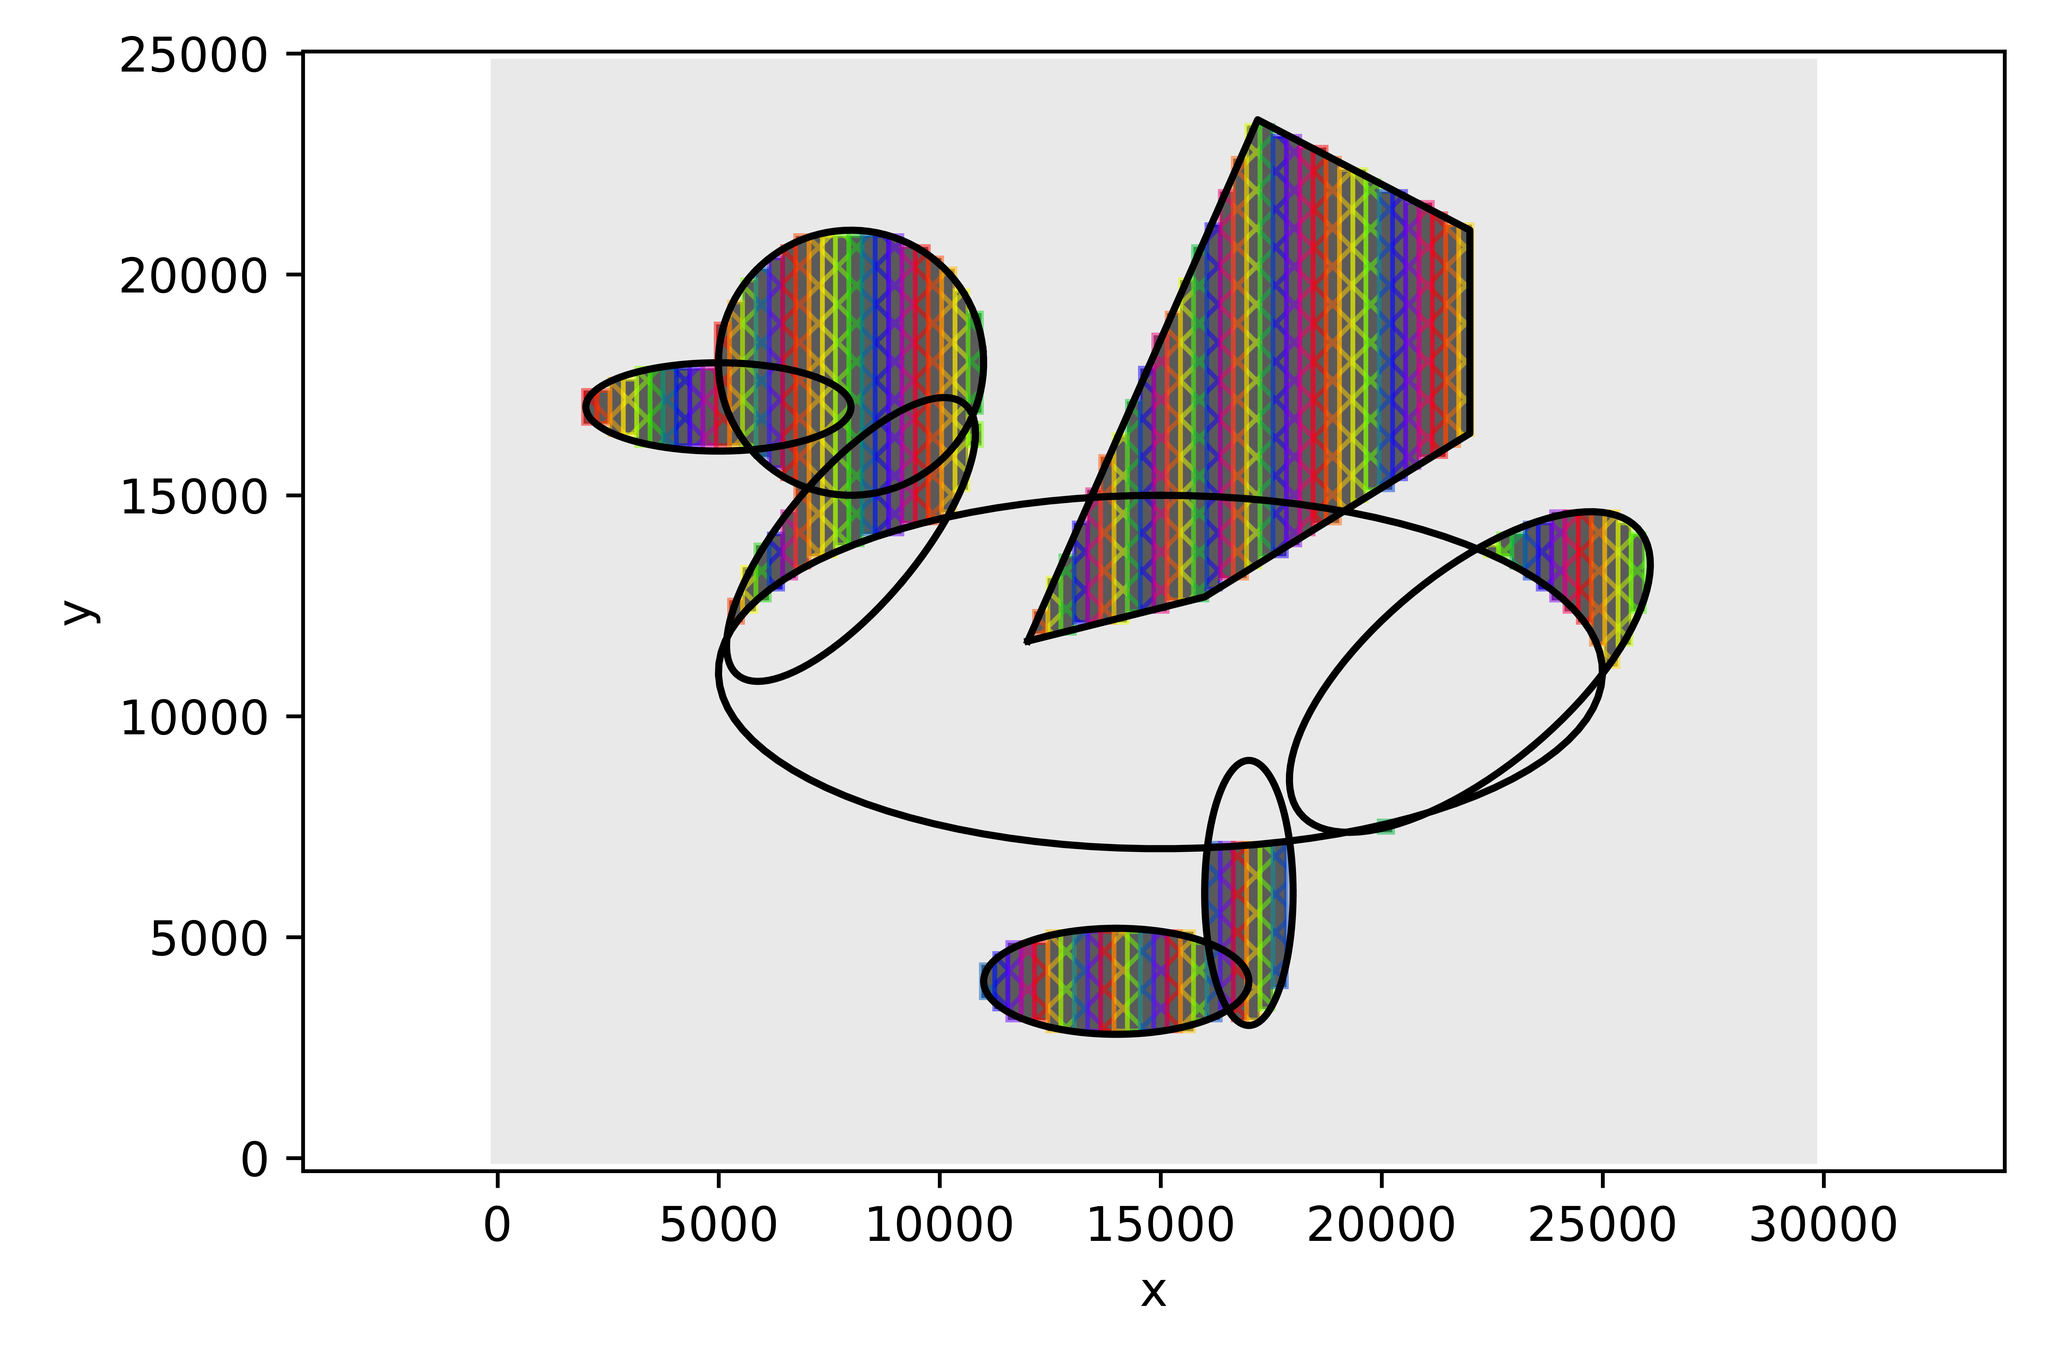
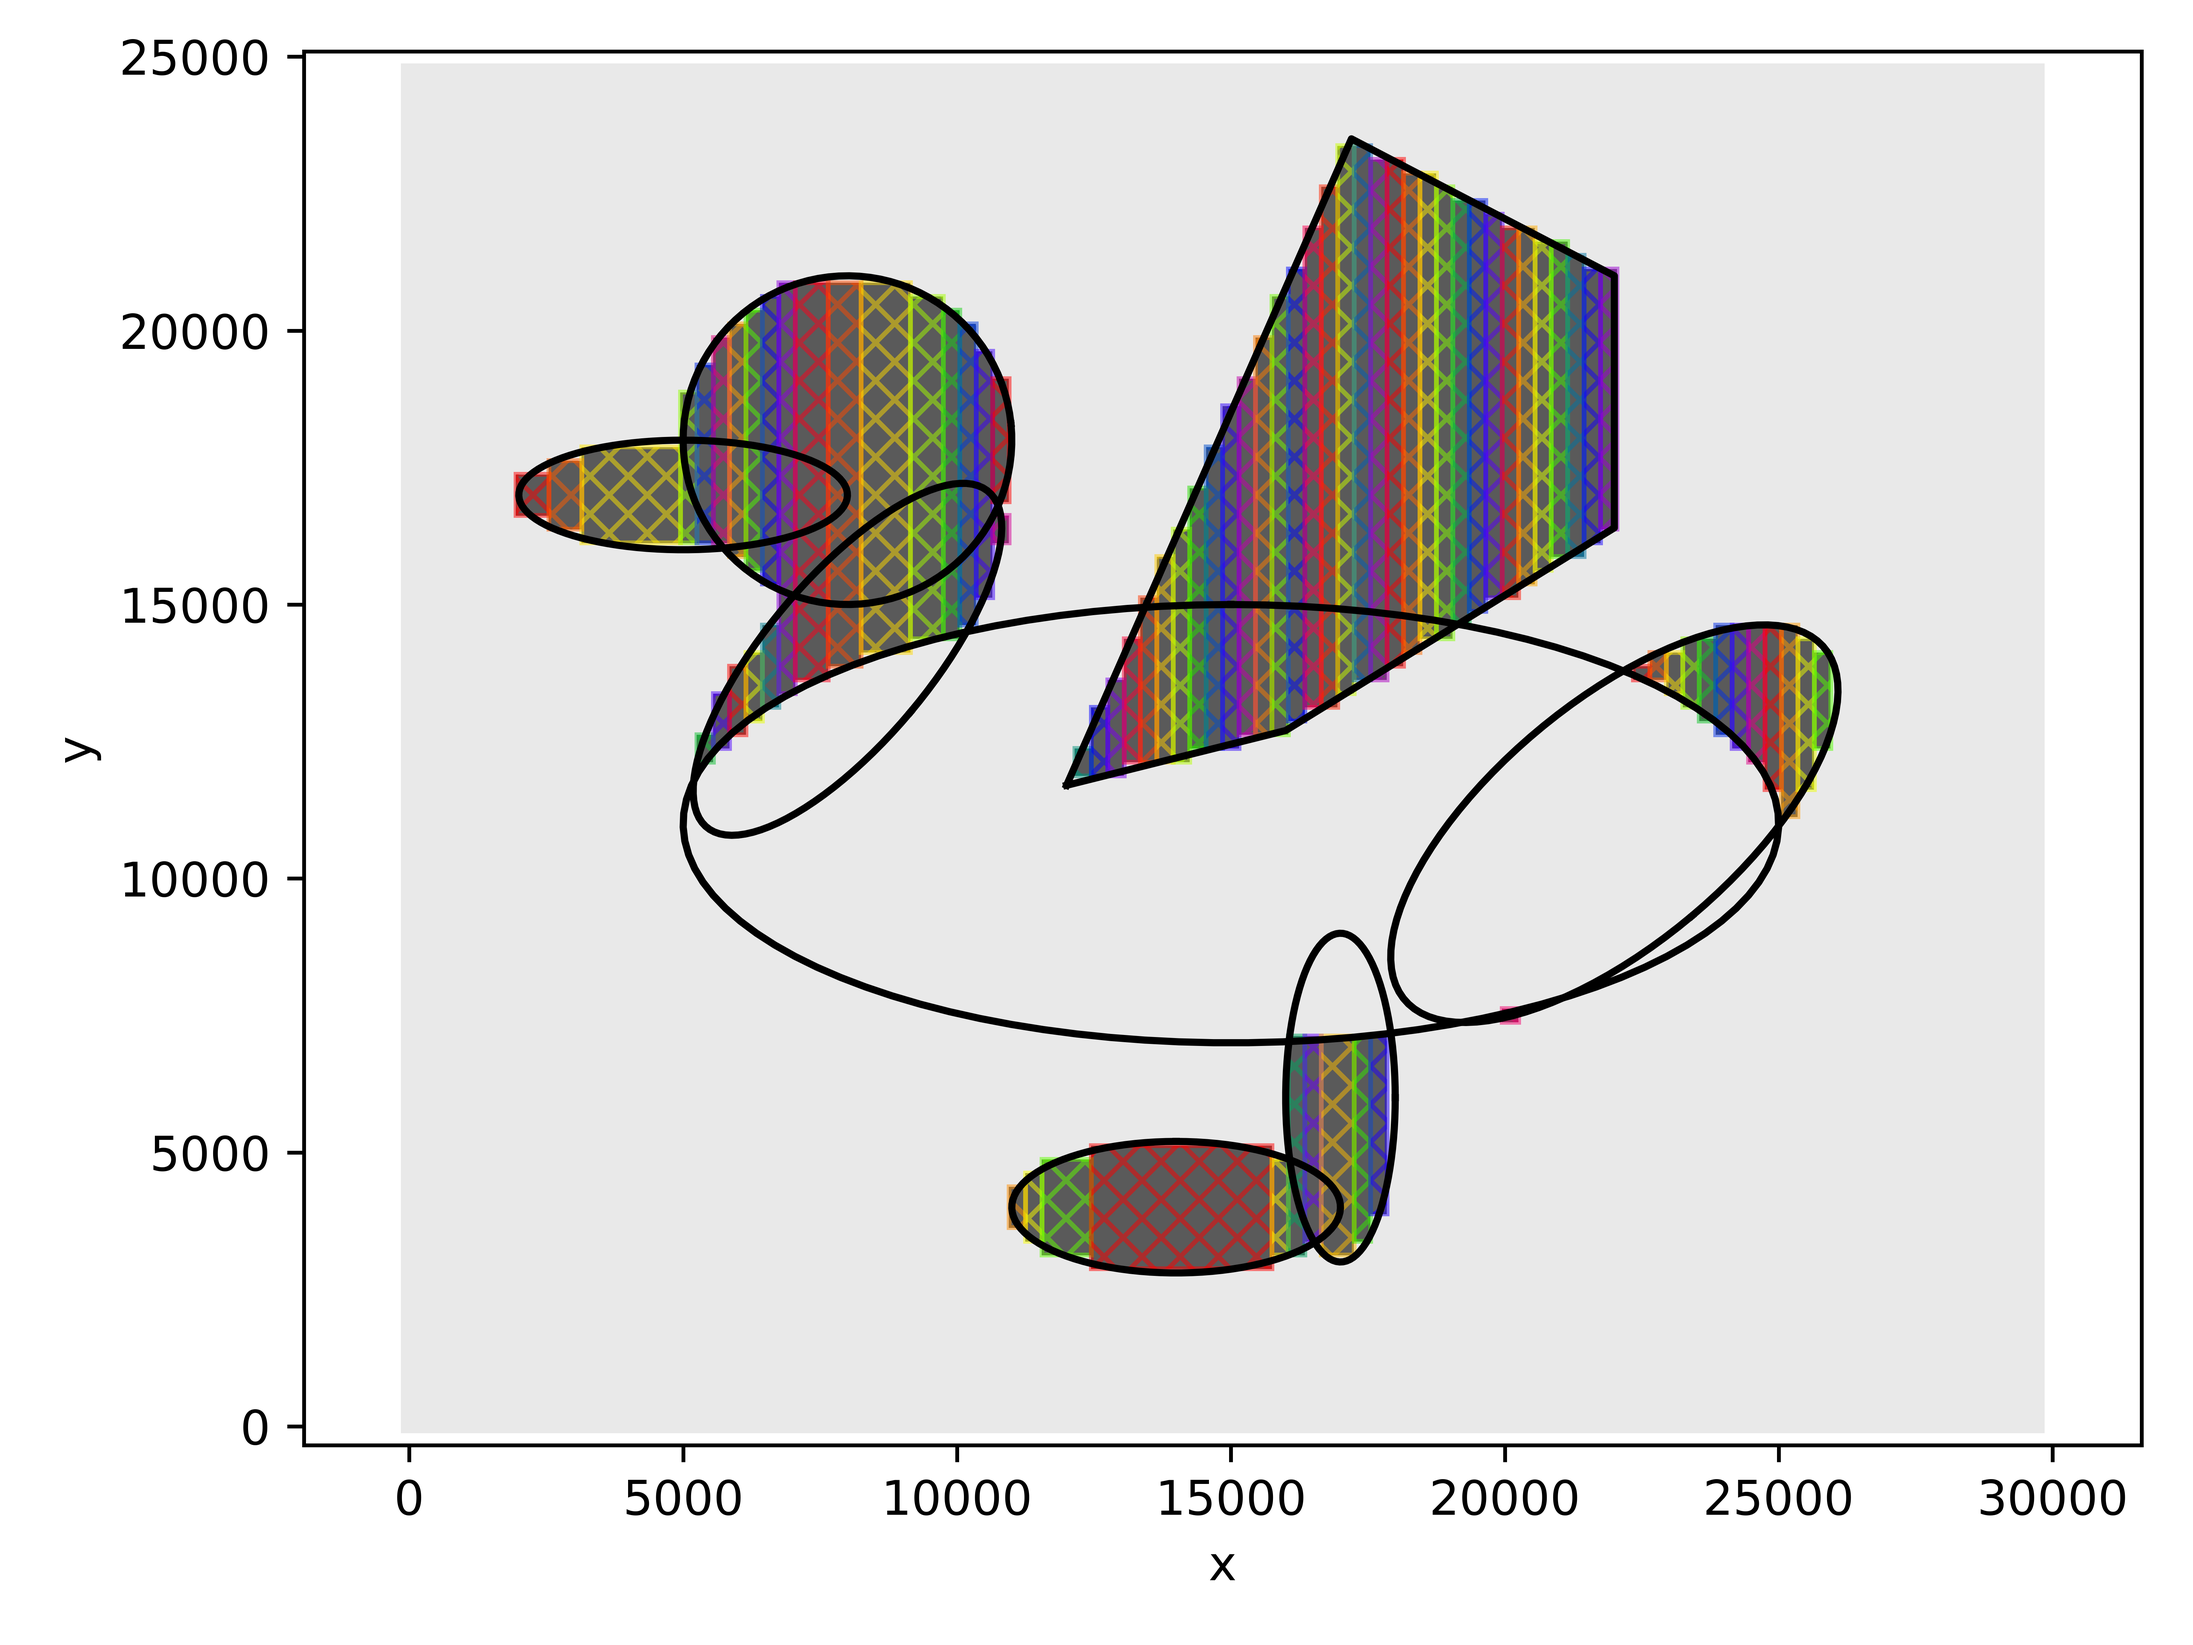
new algorithm

diff --git a/rectangulize.py b/rectangulize.py
@@ -124,6 +124,56 @@ def rectangulize_oli(pattern):
   
     return ibr
 
+def rectangulize_oli_horizontal_grouping(pattern):
+    pattern = pattern.T
+    ibr = []
+
+    for k in range(pattern.shape[0]):
+        line_rects = []
+        
+        if np.sum(pattern[k,:]) !=0:
+            oli = find_object_level_interval(pattern[k,:],interval = [],index = 0)
+            
+            # intervals = []
+            
+            for i in range(oli.shape[0]):
+                # ibr.append((k,oli[i][0],k+1,oli[i][1]))
+                rect = (k,oli[i][0],k,oli[i][1]+oli[i][0]-1)
+                line_rects.append(rect)
+
+    
+        ibr.append(line_rects)
+    
+    # iterate neighboring lines and group identical rectangles
+    for ii in range(pattern.shape[0] - 1):
+        line1_new = []
+        line2_new = []
+        line1 = ibr[ii]
+        line2 = ibr[ii+1]
+        rect2_partner_found = [False for _ in range(len(line2))]
+        for rect1 in line1:
+            rect1_partner_found = False
+            for r2idx, rect2 in enumerate(line2):
+                # check if rectangles can be grouped
+                if rect1[1] == rect2[1] and rect1[3] == rect2[3]:
+                    line2_new.append((rect1[0], rect1[1], rect2[2], rect2[3]))
+                    rect2_partner_found[r2idx] = True
+                    rect1_partner_found = True
+            if not rect1_partner_found:
+                line1_new.append(rect1)
+        for r2idx, rect2_partner_found in enumerate(rect2_partner_found):
+            if not rect2_partner_found:
+                line2_new.append(line2[r2idx])
+        ibr[ii] = line1_new
+        ibr[ii+1] = line2_new
+    
+    # delete empty lines
+    flat_ibr = []
+    for entry in ibr:
+        for rect in entry:
+            flat_ibr.append(rect)
+    return flat_ibr
+
    
 
 def accurate_rectangulize(pattern):
@@ -254,8 +304,11 @@ if __name__ == "__main__":
     pattern = np.zeros(shape=(12,8), dtype=bool)
     pattern[5:9,2:6] = True
     
+    plt.matshow(pattern)
     
     
+    print(rectangulize_oli(pattern))
+    print(rectangulize_oli_horizontal_grouping(pattern))
     
     
     

diff --git a/generate_pattern.py b/generate_pattern.py
@@ -1,6 +1,6 @@
 import numpy as np
 import matplotlib.pyplot as plt
-from rectangulize import rectangulize, rectangulize_oli, dtype
+from rectangulize import rectangulize, rectangulize_oli, dtype, rectangulize_oli_horizontal_grouping
 from raycasting import points_in_closed_curve
 import numba as nb
 import matplotlib.patches as patches
@@ -36,7 +36,7 @@ class Pattern:
         self.step_size = step_size
         
         if algo == "obj_lvl_interval":
-            self.rectangulize_func = rectangulize_oli
+            self.rectangulize_func = rectangulize_oli_horizontal_grouping
         elif algo == "descending_largest":
             self.rectangulize_func = rectangulize
         self.x_size = x_size
